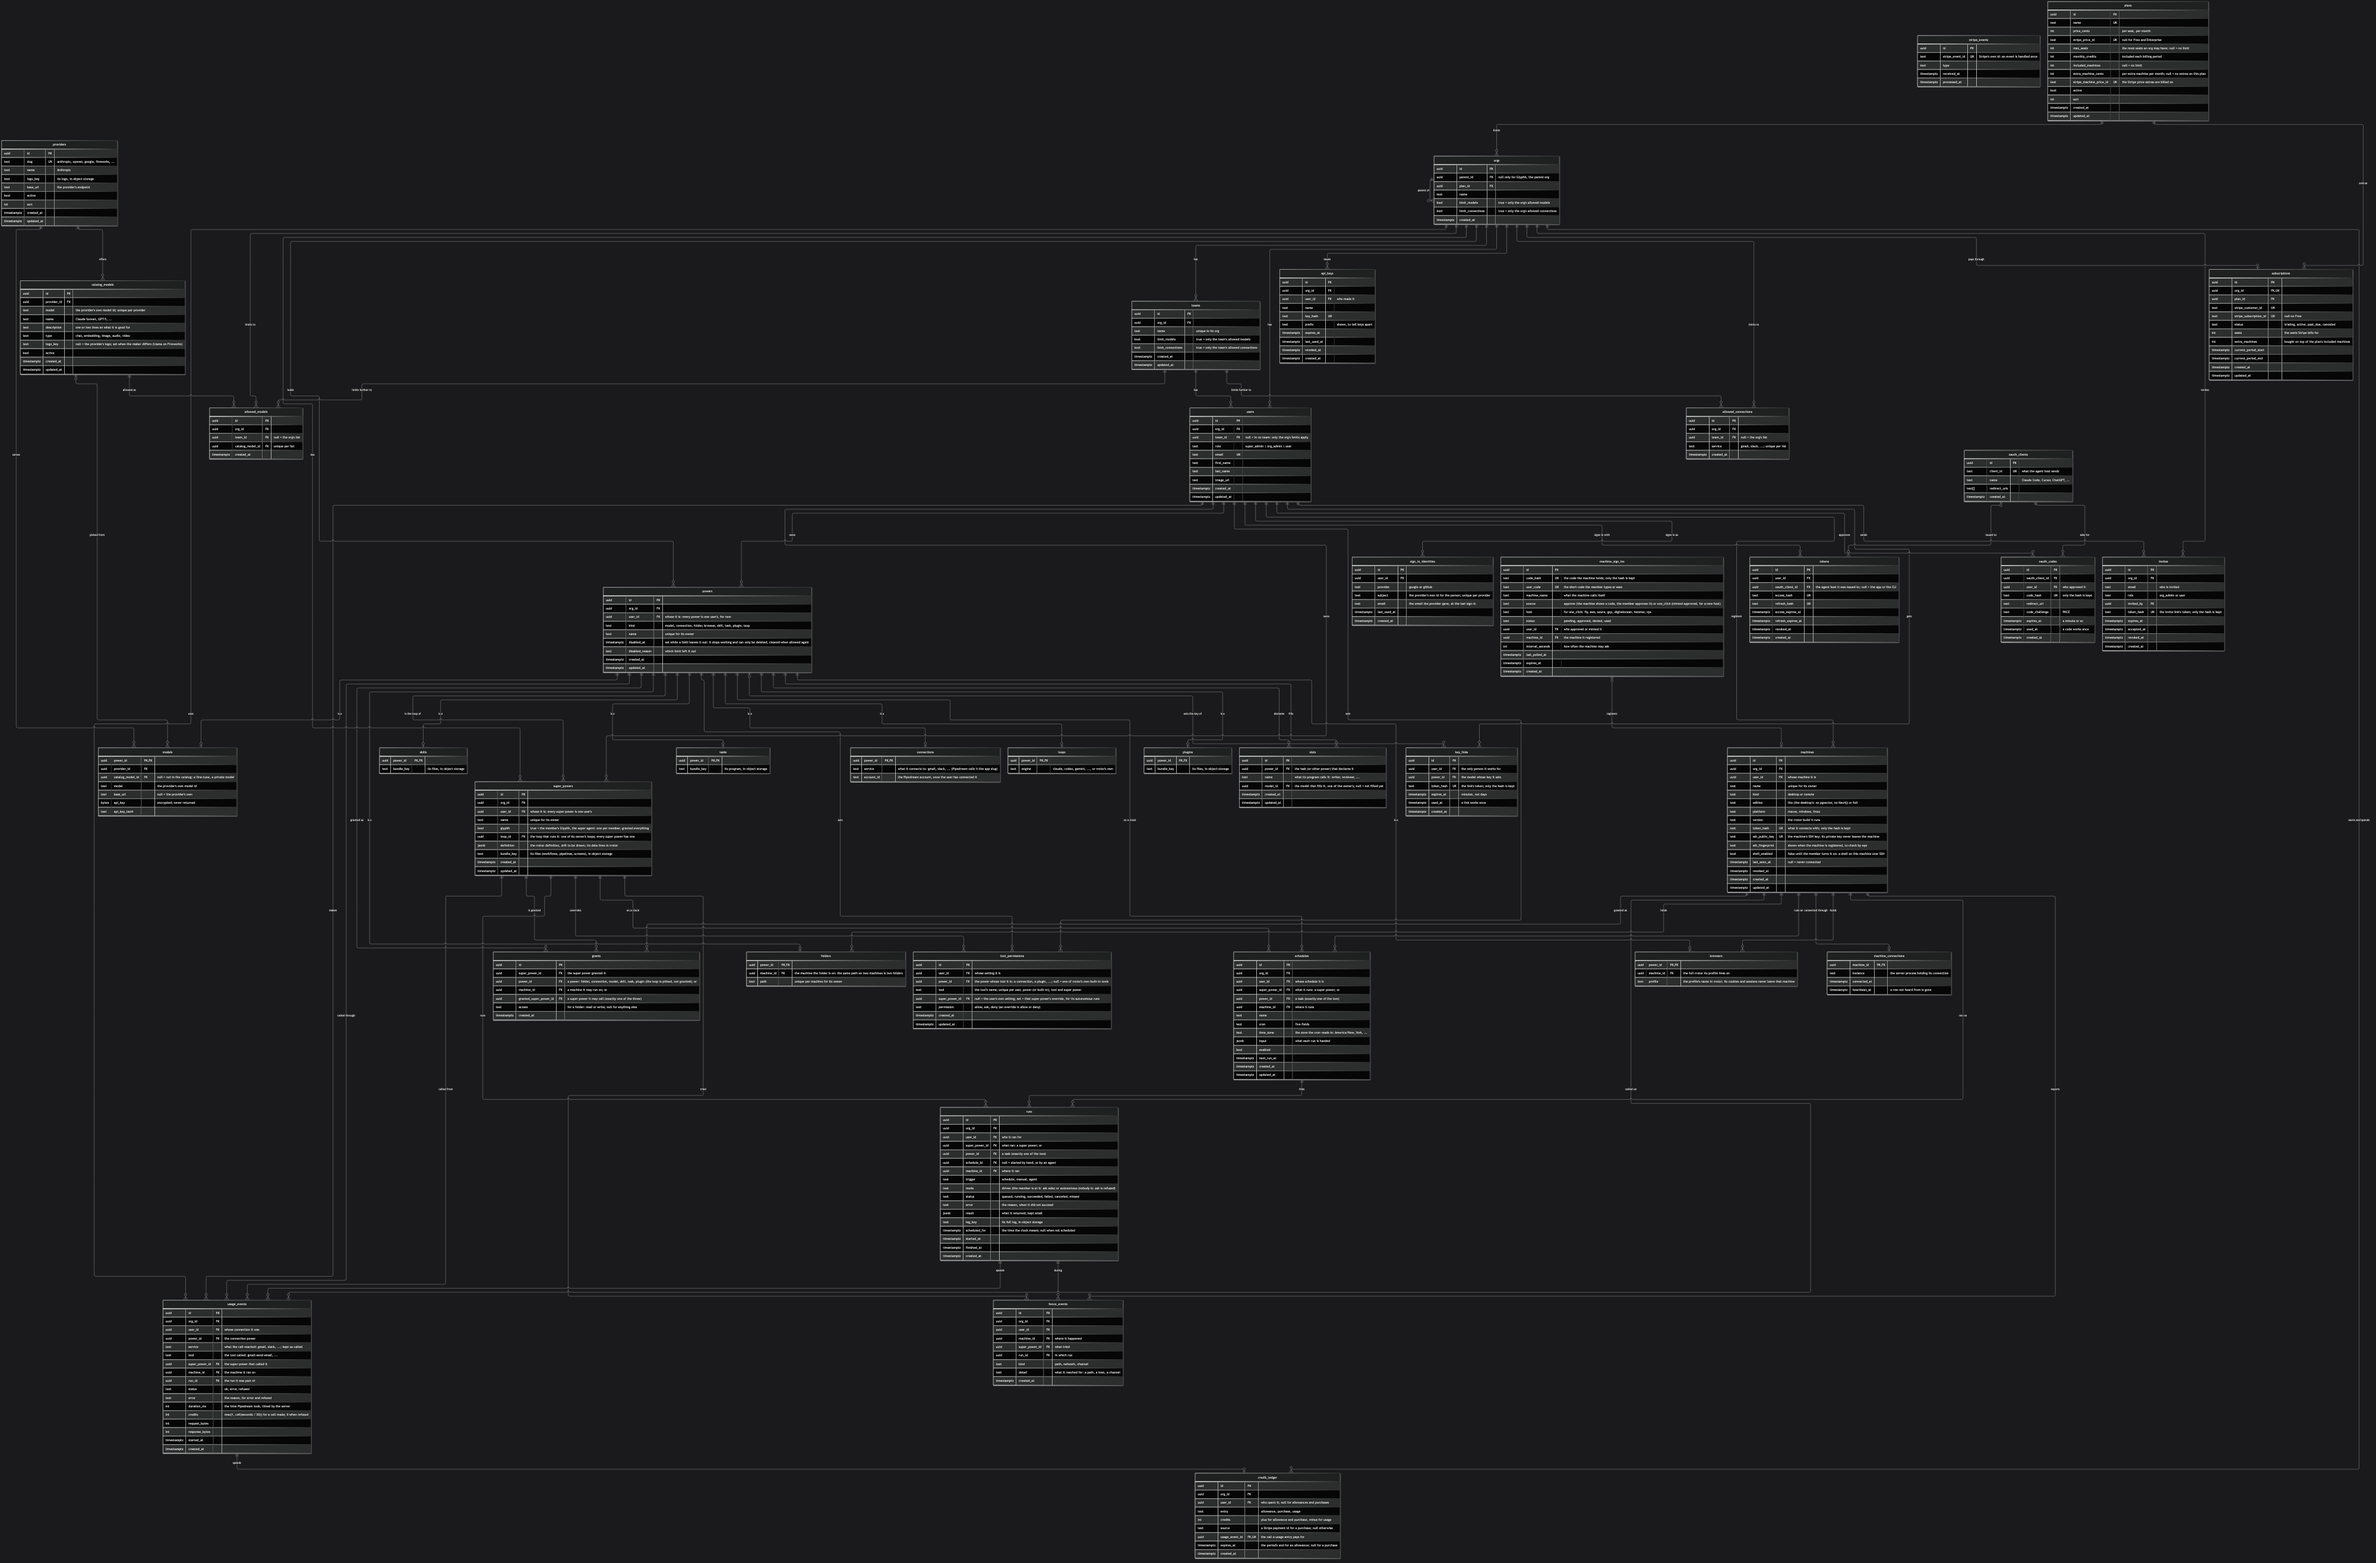
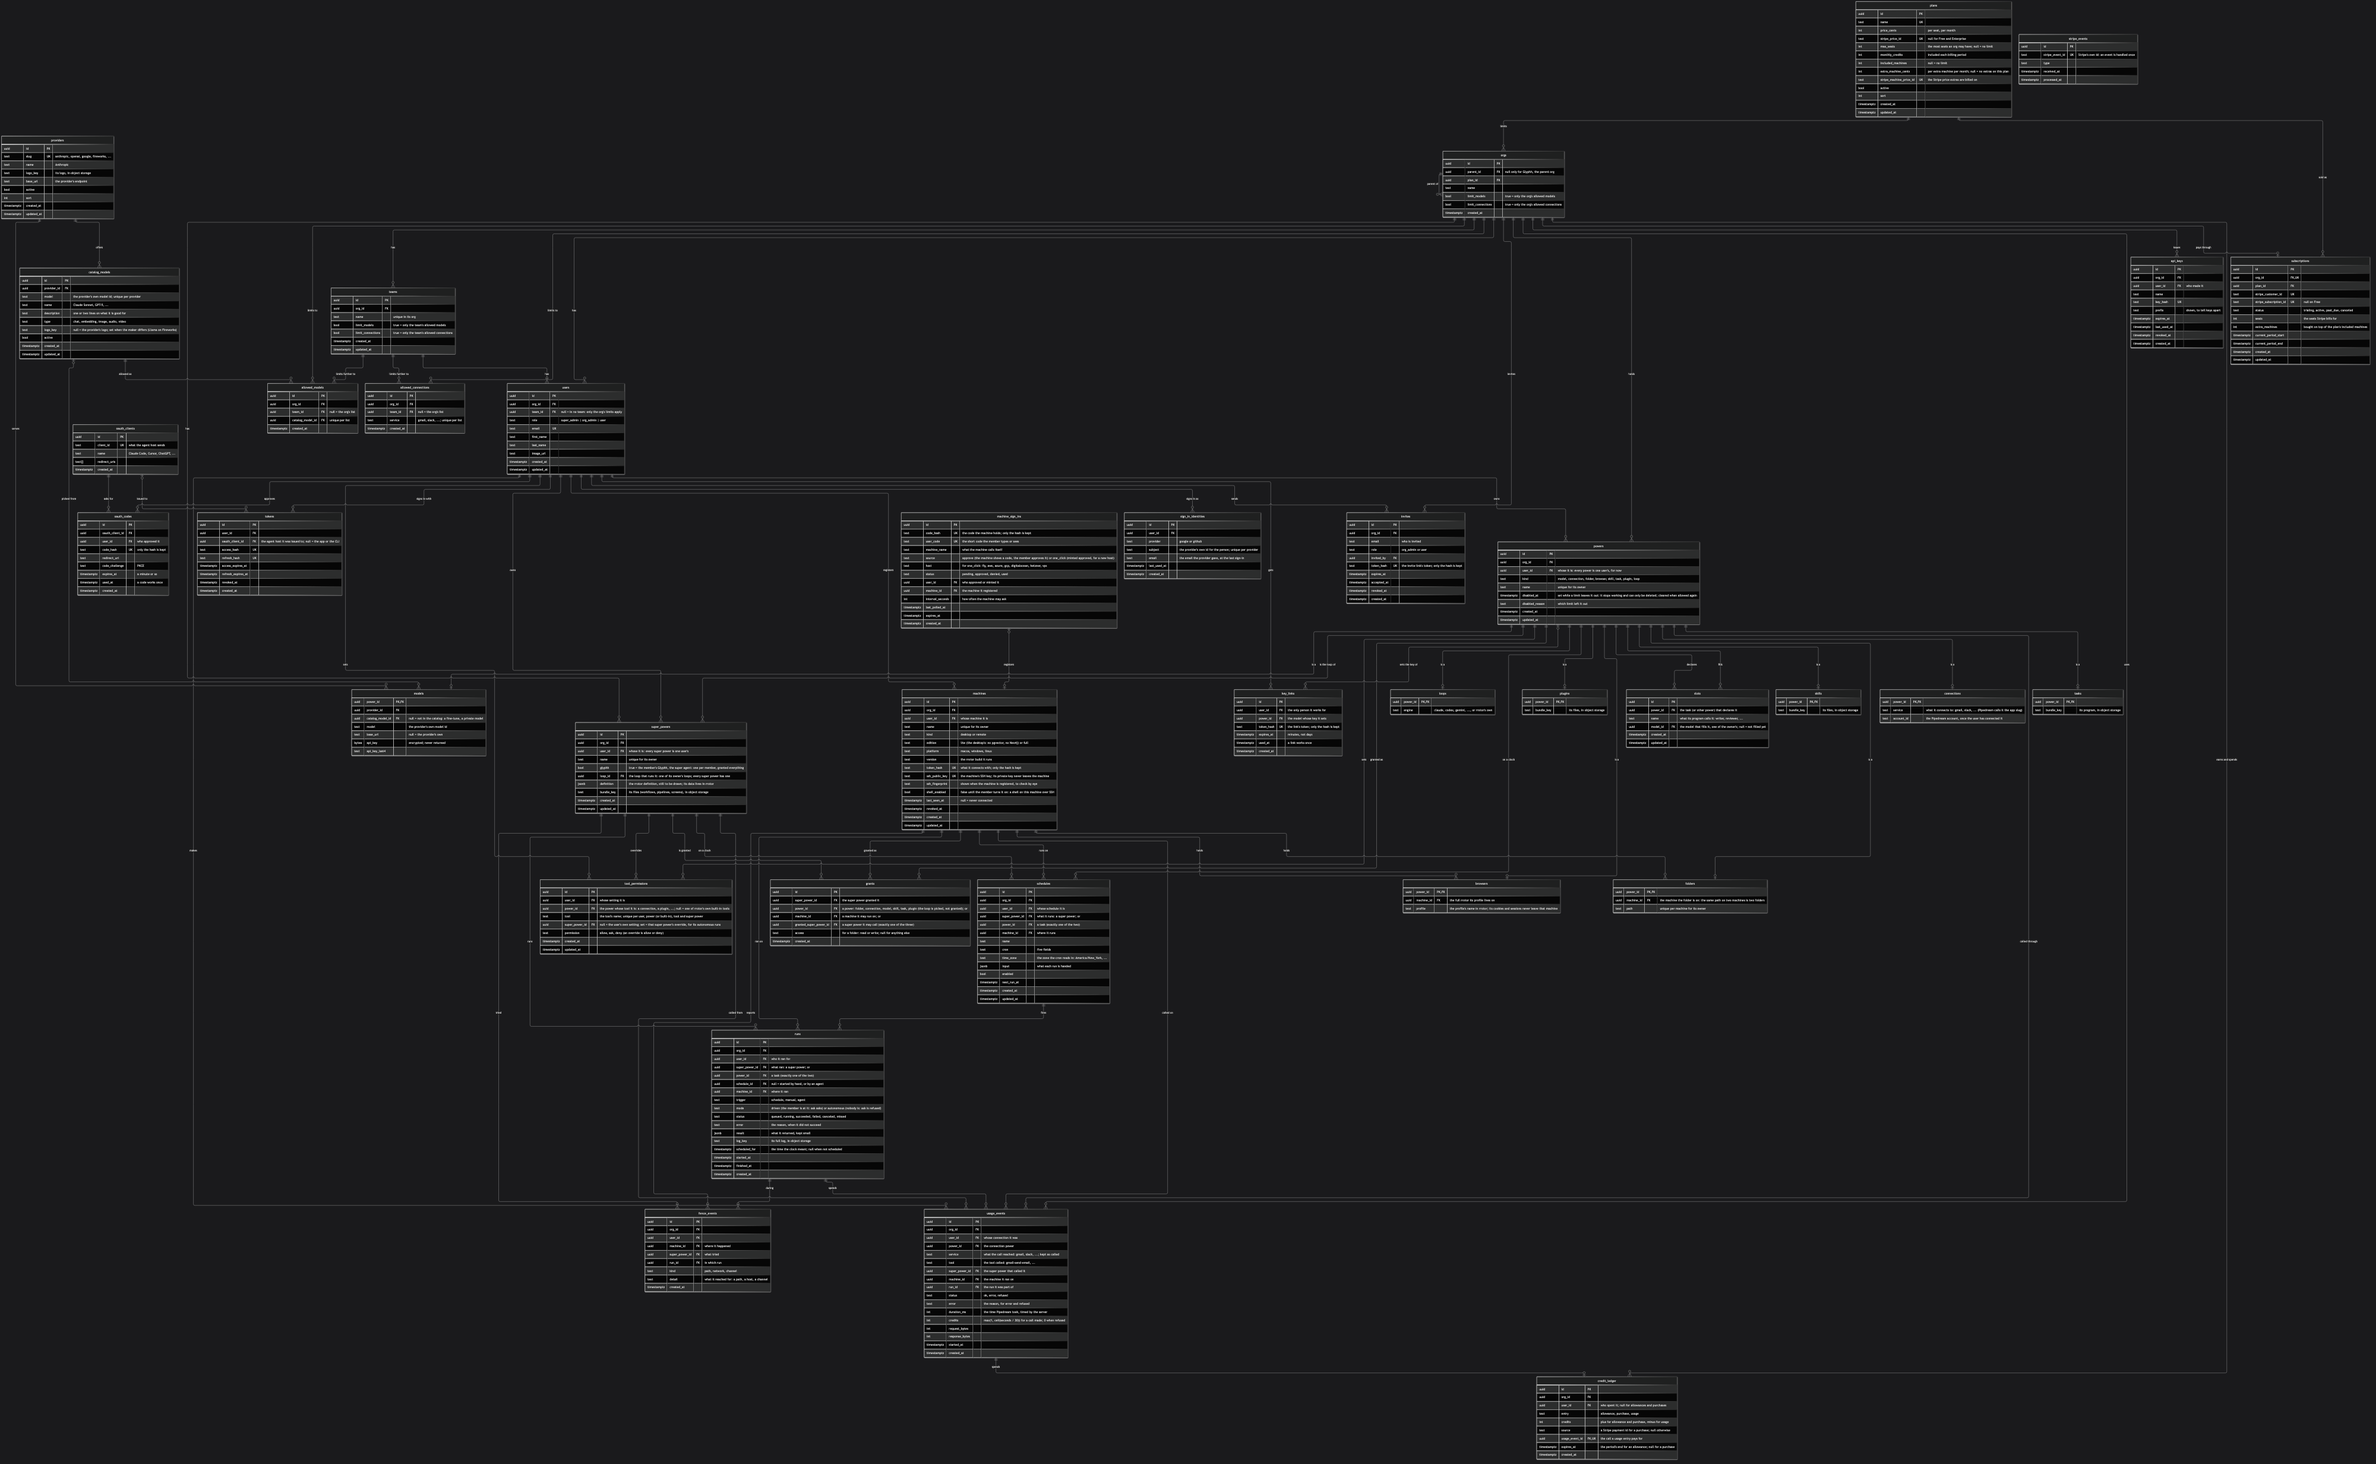
Redis for live state: which process holds each machine, heartbeats, messages between processes; machine_connections leaves the data model

diff --git a/docs/status.md b/docs/status.md
@@ -20,10 +20,10 @@ On the [data model](data-model.md), in the order they were drawn:
 - **Schedules and runs:** `schedules` (the server's clock, sent to a machine) and `runs` (the history).
 - **Billing and usage:** the plan's credit and machine columns, `subscriptions`, `credit_ledger`, `usage_events` (logged by the server's connection relay, one per call).
 - **Browsers and hosting:** `browsers` (a browser profile on one full rrotor, granted like a folder), and one-click sign-ins on `machine_sign_ins` for new hosts.
-- **People and machines:** `invites`, `machines` (with their edition, SSH key, fingerprint and shell switch), `machine_sign_ins`, `machine_connections` (which server process holds each machine), `fence_events` (what rrotor reports when a run reaches past its fence), `api_keys`; folders are on a machine, and folder grants are read or write.
+- **People and machines:** `invites`, `machines` (with their edition, SSH key, fingerprint and shell switch), `machine_sign_ins`, `fence_events` (what rrotor reports when a run reaches past its fence), `api_keys`; folders are on a machine, and folder grants are read or write.
 - **Signing in and Stripe:** `sign_in_identities` (Google and GitHub by the provider's own id), `oauth_clients` and `oauth_codes` (the plugin's sign-in), `key_links` (the platform's one-time key links), `stripe_events` (each webhook handled once).
 
-On the [architecture](architecture.md): rrotor as a Linux VM (the app you drive unsandboxed, remote control only through rrotor by grants), the platform's usage and billing pages, adding a model in the app, what rrotor carries (Postgres with pgvector, a Next.js server, the loop), and machine to machine over SSH through the relay.
+On the [architecture](architecture.md): Redis for live state (which process holds each machine, heartbeats, messages between processes), rrotor as a Linux VM (the app you drive unsandboxed, remote control only through rrotor by grants), the platform's usage and billing pages, adding a model in the app, what rrotor carries (Postgres with pgvector, a Next.js server, the loop), and machine to machine over SSH through the relay.
 
 ## Open
 
@@ -31,7 +31,6 @@ Decisions still to make. Where a proposal is written, it is a proposal, not a de
 
 - **Conversations:** not drawn. Proposal: the server keeps each conversation's record (title, super power, machine, run, status, times), rrotor keeps the messages, and the app and web open them over SSH through the relay.
 - **Where the org admin's pages live:** members, teams, and the allowed models and connections, in the app or on the platform.
-- **Redis for live state:** proposed (which process holds each machine, heartbeats, control messages), replacing the `machine_connections` table; not yet agreed.
 - **RPA on a desktop:** the full rrotor has the virtual screen and Chromium; whether the desktop's lite rrotor gets them too, or desktop RPA stays in the app's own browser.
 - **App settings** (workspaces, tabs, layout, appearance): not drawn; on hold.
 - **The rrotor definition:** what a super power's definition holds (its workflows, pipelines and screens), how one super power's data is kept apart from another's in rrotor's Postgres, and how its screens reach the app and the web from a remote machine.

diff --git a/docs/data-model.md b/docs/data-model.md
@@ -23,7 +23,6 @@ erDiagram
     oauth_clients |o--o{ tokens : "issued to"
     users ||--o{ key_links : "gets"
     powers |o--o{ key_links : "sets the key of"
-    machines ||--o| machine_connections : "connected through"
     machines ||--o{ folders : "holds"
     machines ||--o{ fence_events : "reports"
     super_powers ||--o{ fence_events : "tried"
@@ -451,13 +450,6 @@ erDiagram
         timestamptz created_at
     }
 
-    machine_connections {
-        uuid machine_id PK, FK
-        text instance "the server process holding its connection"
-        timestamptz connected_at
-        timestamptz heartbeat_at "a row not heard from is gone"
-    }
-
     fence_events {
         uuid id PK
         uuid org_id FK
@@ -631,7 +623,7 @@ Signing in always happens from a machine, and signing in is how a machine is reg
 
 A machine is a registered rrotor, a small Linux VM: a member's desktop (the app runs it) or a remote server they run, on any host. It connects out to the server with its own token (only the hash is kept) and reports what it is: a desktop or a remote server, its platform, and the rrotor version it runs (builds update themselves, so the server sees which version each machine is on). `last_seen_at` says when it was last online. Its edition says what it can host: a desktop's rrotor is lite (no pgvector, no Neo4j), a remote one is full, so a super power that needs vectors or a graph is never placed or scheduled on a lite machine. A folder is always on one machine (`folders.machine_id`): the same path on two machines is two folders, and a folder grant says whether the super power may only read it or also write it (`grants.access`). At sign-in a machine also makes its own SSH key pair: the private key stays on the machine, the public key is registered here with its fingerprint (see the architecture, Machine to machine). A plan includes a number of machines (`included_machines`). An org can add more for a monthly price per extra machine, set per plan (`extra_machine_cents`, billed on the plan's Stripe price for extras); the subscription carries how many it bought (`extra_machines`). An org can register up to its included plus its extra machines; revoking one stops it connecting and frees its place.
 
-**machine_connections** says which server process holds each connected machine's connection, so a request landing on another process is sent to the right one (Postgres notifications carry it across; no Redis). A row not heard from within its heartbeat is treated as gone.
+**Which server process holds a machine's connection is not in this database:** it is live state that is only true right now, so it lives in Redis (see the architecture, Data). `last_seen_at` here is updated when a machine connects and disconnects, not on every heartbeat.
 
 **fence_events** are what rrotor reports when something inside a run reaches past its fence: a path that is not mounted, a host not on its network list, a channel it was not granted. The relay never reads the stream to find them; rrotor tells the server, and the platform shows them ("this super power tried to leave its folders").
 

diff --git a/docs/architecture.md b/docs/architecture.md
@@ -10,10 +10,12 @@ flowchart TB
         Platform["Platform<br/>manage your rrotors, keys, billing"]
         Server["Server<br/>API + MCP"]
         DB[("Postgres<br/>accounts, powers, grants,<br/>machines, usage, billing")]
+        Live[("Redis<br/>live state: which process<br/>holds each machine")]
         Relay["Relay = the gate<br/>checks grants before joining;<br/>passes SSH it cannot read"]
         ConnRelay["Connection relay<br/>counts every call"]
         Platform --> Server
         Server --- DB
+        Server --- Live
         Server --- Relay
         Server --- ConnRelay
     end
@@ -196,7 +198,9 @@ Two ways in, one per surface, both in the `glyphh-ai/glyphh` repo (private for n
 
 ### Data
 
-- **Database:** one Postgres for every tenant, without pgvector.
+- **Database:** one Postgres for every tenant, without pgvector: the durable truth.
+- **Live state:** Redis, managed with a standby, for what is only true right now: which server process holds each machine's connection, machine heartbeats (keys that expire on their own when a machine goes quiet), and messages between server processes (cut this session, unmount this folder, this grant was revoked); later rate counters and short-lived caches. Losing it loses nothing: machines reconnect and register again in seconds.
+- **Joining two machines** happens on the process that already holds B's connection: A's request is sent there, so SSH bytes flow through one process and never cross between servers. Redis carries only the lookup and the control messages, never the bytes.
 - **Tenant isolation:** row-level security keyed on the org, enforced by the database.
 - **Access:** SQLAlchemy 2 (async) over asyncpg.
 - **Schema:** one schema file until relaunch, then Alembic migrations.
